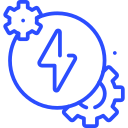
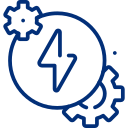
add benefits img

diff --git a/index.html b/index.html
@@ -58,7 +58,7 @@
                         <div class="pq-header-contact ">
                             <ul>
                                 <li>
-                                    <a href="tel:+180045647824"><i class="fas fa-phone-flip"></i><span>+1-800-456-478-24</span></a>
+                                    <a href="tel:+180045647824"><i class="fas fa-phone-flip"></i><span>+225 07-07-57-25-02</span></a>
                                 </li>
                                 <li>
                                     <a href="mailto:peacefulqode@gmail.com"><i class="fas fa-envelope"></i><span>imaro-services@gmail.com</span></a>
@@ -238,12 +238,12 @@
 							--><rs-layer
 								id="slider-14-slide-41-layer-4" 
 								data-type="text"
-								data-color="#2b4dff"
+								data-color="#022f78"
 								data-rsp_ch="on"
 								data-xy="x:l,l,l,c;xo:27px,60px,42px,-93px;y:m,m,t,t;yo:-146px,-129px,150px,57px;"
 								data-text="w:normal;s:18;l:30;ls:3px,2px,1px,0px;fw:600;a:left,left,center,left;"
 								data-padding="l:10,8,6,4;"
-								data-border="boc:#2b4dff;bow:0,0,0,1px;"
+								data-border="boc:#022f78;bow:0,0,0,1px;"
 								data-frame_0="x:50,39,29,17;"
 								data-frame_1="st:1300;sp:1000;"
 								data-frame_999="o:0;st:w;"
@@ -266,7 +266,7 @@
 								data-frame_1="st:1300;sp:1000;"
 								data-frame_999="o:0;st:w;"
 								data-frame_hover="c:#fff;bgc:#151515;bor:5px,5px,5px,5px;sp:100;e:power1.inOut;bri:120%;"
-								style="z-index:10;background-color:#2b4dff;"
+								style="z-index:10;background-color:#022f78;"
 							>Contactez-nous		 
 							</a>
                         </rs-slide>
@@ -305,12 +305,12 @@
 							--><rs-layer
 								id="slider-14-slide-46-layer-4" 
 								data-type="text"
-								data-color="#2b4dff"
+								data-color="#022f78"
 								data-rsp_ch="on"
 								data-xy="x:l,l,l,c;xo:27px,62px,46px,-83px;y:m,m,t,t;yo:-147px,-125px,154px,62px;"
 								data-text="w:normal;s:18;l:30;ls:3px,2px,1px,0px;fw:600;a:left,left,center,left;"
 								data-padding="l:10,8,6,4;"
-								data-border="boc:#2b4dff;bow:0,0,0,1px;"
+								data-border="boc:#022f78;bow:0,0,0,1px;"
 								data-frame_0="x:50,39,29,17;"
 								data-frame_1="st:1300;sp:1000;"
 								data-frame_999="o:0;st:w;"
@@ -333,7 +333,7 @@
 								data-frame_1="st:1300;sp:1000;"
 								data-frame_999="o:0;st:w;"
 								data-frame_hover="c:#fff;bgc:#151515;bor:5px,5px,5px,5px;sp:100;e:power1.inOut;bri:120%;"
-								style="z-index:10;background-color:#2b4dff;"
+								style="z-index:10;background-color:#022f78;"
 							>Contactez-nous	 
 							</a></rs-slide>
 						<rs-slide data-key="rs-45" data-title="Slide" data-thumb="rev/assets/banner5-50x100.jpg" data-anim="ei:d;eo:d;s:1000;r:0;t:fade;sl:1;">
@@ -371,12 +371,12 @@
 							--><rs-layer
 								id="slider-14-slide-45-layer-4" 
 								data-type="text"
-								data-color="#2b4dff"
+								data-color="#022f78"
 								data-rsp_ch="on"
 								data-xy="x:l,l,l,c;xo:27px,70px,48px,-93px;y:m,m,t,t;yo:-148px,-130px,159px,62px;"
 								data-text="w:normal;s:18;l:30;ls:3px,2px,1px,0px;fw:600;a:left,left,center,left;"
 								data-padding="l:10,8,6,4;"
-								data-border="boc:#2b4dff;bow:0,0,0,1px;"
+								data-border="boc:#022f78;bow:0,0,0,1px;"
 								data-frame_0="x:50,39,29,17;"
 								data-frame_1="st:1300;sp:1000;"
 								data-frame_999="o:0;st:w;"
@@ -399,7 +399,7 @@
 								data-frame_1="st:1300;sp:1000;"
 								data-frame_999="o:0;st:w;"
 								data-frame_hover="c:#fff;bgc:#151515;bor:5px,5px,5px,5px;sp:100;e:power1.inOut;bri:120%;"
-								style="z-index:10;background-color:#2b4dff;"
+								style="z-index:10;background-color:#022f78;"
 							>Contactez-nous
 							</a>
                         </rs-slide>
@@ -417,7 +417,7 @@
                 <div class="col-lg-12">
                     <div class="pq-section pq-style-1 text-center">
                         <span class="pq-section-sub-title"># Nos Services</span>
-                        <h5 class="pq-section-title" id="confiance" data-high_text="confiance" data-title_text="Réalisez tous vos projets avec un partenaire de confiance" data-rough_color="#2b4dff" data-rough_type="underline">Réalisez tous vos projets avec un partenaire de confiance</h5>
+                        <h5 class="pq-section-title" id="confiance" data-high_text="confiance" data-title_text="Réalisez tous vos projets avec un partenaire de confiance" data-rough_color="#022f78" data-rough_type="underline">Réalisez tous vos projets avec un partenaire de confiance</h5>
                     </div>
                 </div>
                 <div class="col-xl-3 col-lg-6 col-md-6">
@@ -556,7 +556,7 @@
                 <div class="col-lg-6 mt-4 mt-lg-0">
                     <div class="pq-section pq-style-1 text-left">
                         <span class="pq-section-sub-title"># A Propos de Nous</span>
-                        <h5 class="pq-section-title" id="resultats" data-high_text="résultats" data-title_text="Des solutions sur-mesure pour des résultats concrets et durables" data-rough_color="#2b4dff" data-rough_type="underline">Des solutions sur-mesure pour des résultats concrets et durables</h5>
+                        <h5 class="pq-section-title" id="resultats" data-high_text="résultats" data-title_text="Des solutions sur-mesure pour des résultats concrets et durables" data-rough_color="#022f78" data-rough_type="underline">Des solutions sur-mesure pour des résultats concrets et durables</h5>
                         <p class="pq-section-description">IMARO Services est votre partenaire de confiance 
                             pour des projets clés en main dans les secteurs du BTP, de l’électricité, de la gestion de flotte et bien plus. 
                             Nous apportons des solutions innovantes et adaptées à vos besoins, avec une expertise reconnue pour garantir des résultats fiables et durables. 
@@ -579,7 +579,7 @@
                 <div class="col-lg-12">
                     <div class="pq-section pq-style-1 text-center">
                         <span class="pq-section-sub-title"># Des Projets Qui Parlent D'eux-Mêmes</span>
-                        <h5 class="pq-section-title" id="projects" data-high_text="Projects" data-title_text="Latest Projects" data-rough_color="#2b4dff" data-rough_type="underline">Projets Réalisés</h5>
+                        <h5 class="pq-section-title" id="Réalises" data-high_text="Réalisés" data-title_text="Projets Réalisés" data-rough_color="#022f78" data-rough_type="underline">Projets Réalisés</h5>
                         <p class="pq-section-description">Découvrez comment nous avons transformé des idées ambitieuses en succès concrets, avec des clients dans divers secteurs.</p>
                     </div>
                 </div>
@@ -796,7 +796,7 @@
                 <div class="col-lg-12">
                     <div class="pq-section pq-style-1 text-center">
                         <span class="pq-section-sub-title"># Pourquoi nous choisir ? </span>
-                        <h5 class="pq-section-title" id="service" data-high_text="Services" data-title_text="We Run All Kinds Of Services" data-rough_color="#2b4dff" data-rough_type="underline">Pourquoi Choisir IMARO Services pour Vos Projets ?</h5>
+                        <h5 class="pq-section-title" id="Projets" data-high_text="Projets" data-title_text="Pourquoi Choisir IMARO Services pour Vos Projets ?" data-rough_color="#022f78" data-rough_type="underline">Pourquoi Choisir IMARO Services pour Vos Projets ?</h5>
                         <p class="pq-section-descrition">Des services flexibles et adaptés à vos besoins, garantissant qualité, rapidité et efficacité à chaque étape.</p>
                     </div>
                 </div>
@@ -804,7 +804,7 @@
             <div class="row g-5">
                 <div class="col-xl-4 col-lg-6 col-md-6">
                     <div class="pq-fancy-box pq-fancybox-1">
-                        <div class="pq-fancy-media"><i class=" flaticon-monitor-screen"></i></div>
+                        <div class="pq-fancy-media"><img style="height: 70px;" src="images/benefits/sector.png" alt=""></div>
                         <div class="pq-fancybox-info">
                             <h5 class="pq-fancy-box-title">Expertise multi-sectorielle</h5>
                             <p>Une maîtrise dans plusieurs domaines, du BTP à la gestion de flotte, en passant par l’électricité et l’organisation événementielle.</p>
@@ -820,7 +820,7 @@
                 </div>
                 <div class="col-xl-4 col-lg-6 col-md-6">
                     <div class="pq-fancy-box pq-fancybox-1">
-                        <div class="pq-fancy-media"><i class=" flaticon-marketing"></i></div>
+                        <div class="pq-fancy-media"><img style="height: 70px;" src="images/benefits/aToZ.png" alt=""></i></div>
                         <div class="pq-fancybox-info">
                             <h5 class="pq-fancy-box-title">Accompagnement de A à Z</h5>
                             <p>Une prise en charge complète, de la conception à la réalisation, avec un suivi rigoureux à chaque étape.</p>
@@ -836,7 +836,7 @@
                 </div>
                 <div class="col-xl-4 col-lg-12 col-md-12">
                     <div class="pq-fancy-box pq-fancybox-1">
-                        <div class="pq-fancy-media"><i class=" flaticon-call-center"></i></div>
+                        <div class="pq-fancy-media"><img style="height: 70px;" src="images/benefits/delay.png" alt=""></div>
                         <div class="pq-fancybox-info">
                             <h5 class="pq-fancy-box-title"> Respect des délais </h5>
                             <p>Une gestion de projet optimisée pour garantir le respect des échéances et des engagements.</p>
@@ -852,7 +852,7 @@
                 </div>
                 <div class="col-xl-4 col-lg-6 col-md-6">
                     <div class="pq-fancy-box pq-fancybox-1">
-                        <div class="pq-fancy-media"><i class=" flaticon-laptop"></i></div>
+                        <div class="pq-fancy-media"><img style="height: 70px;" src="images/benefits/team.png" alt=""></div>
                         <div class="pq-fancybox-info">
                             <h5 class="pq-fancy-box-title">Équipe expérimentée </h5>
                             <p>Des professionnels qualifiés dans chaque domaine, assurant des résultats de haute qualité.</p>
@@ -868,7 +868,7 @@
                 </div>
                 <div class="col-xl-4 col-lg-6 col-md-6">
                     <div class="pq-fancy-box pq-fancybox-1">
-                        <div class="pq-fancy-media"><i class=" flaticon-html"></i></div>
+                        <div class="pq-fancy-media"><img style="height: 70px;" src="images/benefits/reseau.png" alt=""></div>
                         <div class="pq-fancybox-info">
                             <h5 class="pq-fancy-box-title">Réseau de partenaires fiables</h5>
                             <p>Collaboration avec des fournisseurs et partenaires de confiance pour assurer la réussite des projets.</p>
@@ -884,7 +884,7 @@
                 </div>
                 <div class="col-xl-4 col-lg-12 col-md-12">
                     <div class="pq-fancy-box pq-fancybox-1">
-                        <div class="pq-fancy-media"><i class=" flaticon-data-analysis"></i></div>
+                        <div class="pq-fancy-media"><img style="height: 70px;" src="images/benefits/prix.png" alt=""></div>
                         <div class="pq-fancybox-info">
                             <h4 class="pq-fancy-box-title">Coût compétitif</h4>
                             <p>Un excellent rapport qualité-prix, avec des solutions qui maximisent les performances tout en respectant le budget.</p>

diff --git a/css/style.css b/css/style.css
@@ -57,7 +57,7 @@ Fonts
 Moz Selection
 ================================================*/
 :root {
-	--primary-color: #2b4dff;
+	--primary-color: #022f78;
 	--dark-color: #151515;
 	--secondary-color: #616161;
 	--grey-color: #F7F8F9;
